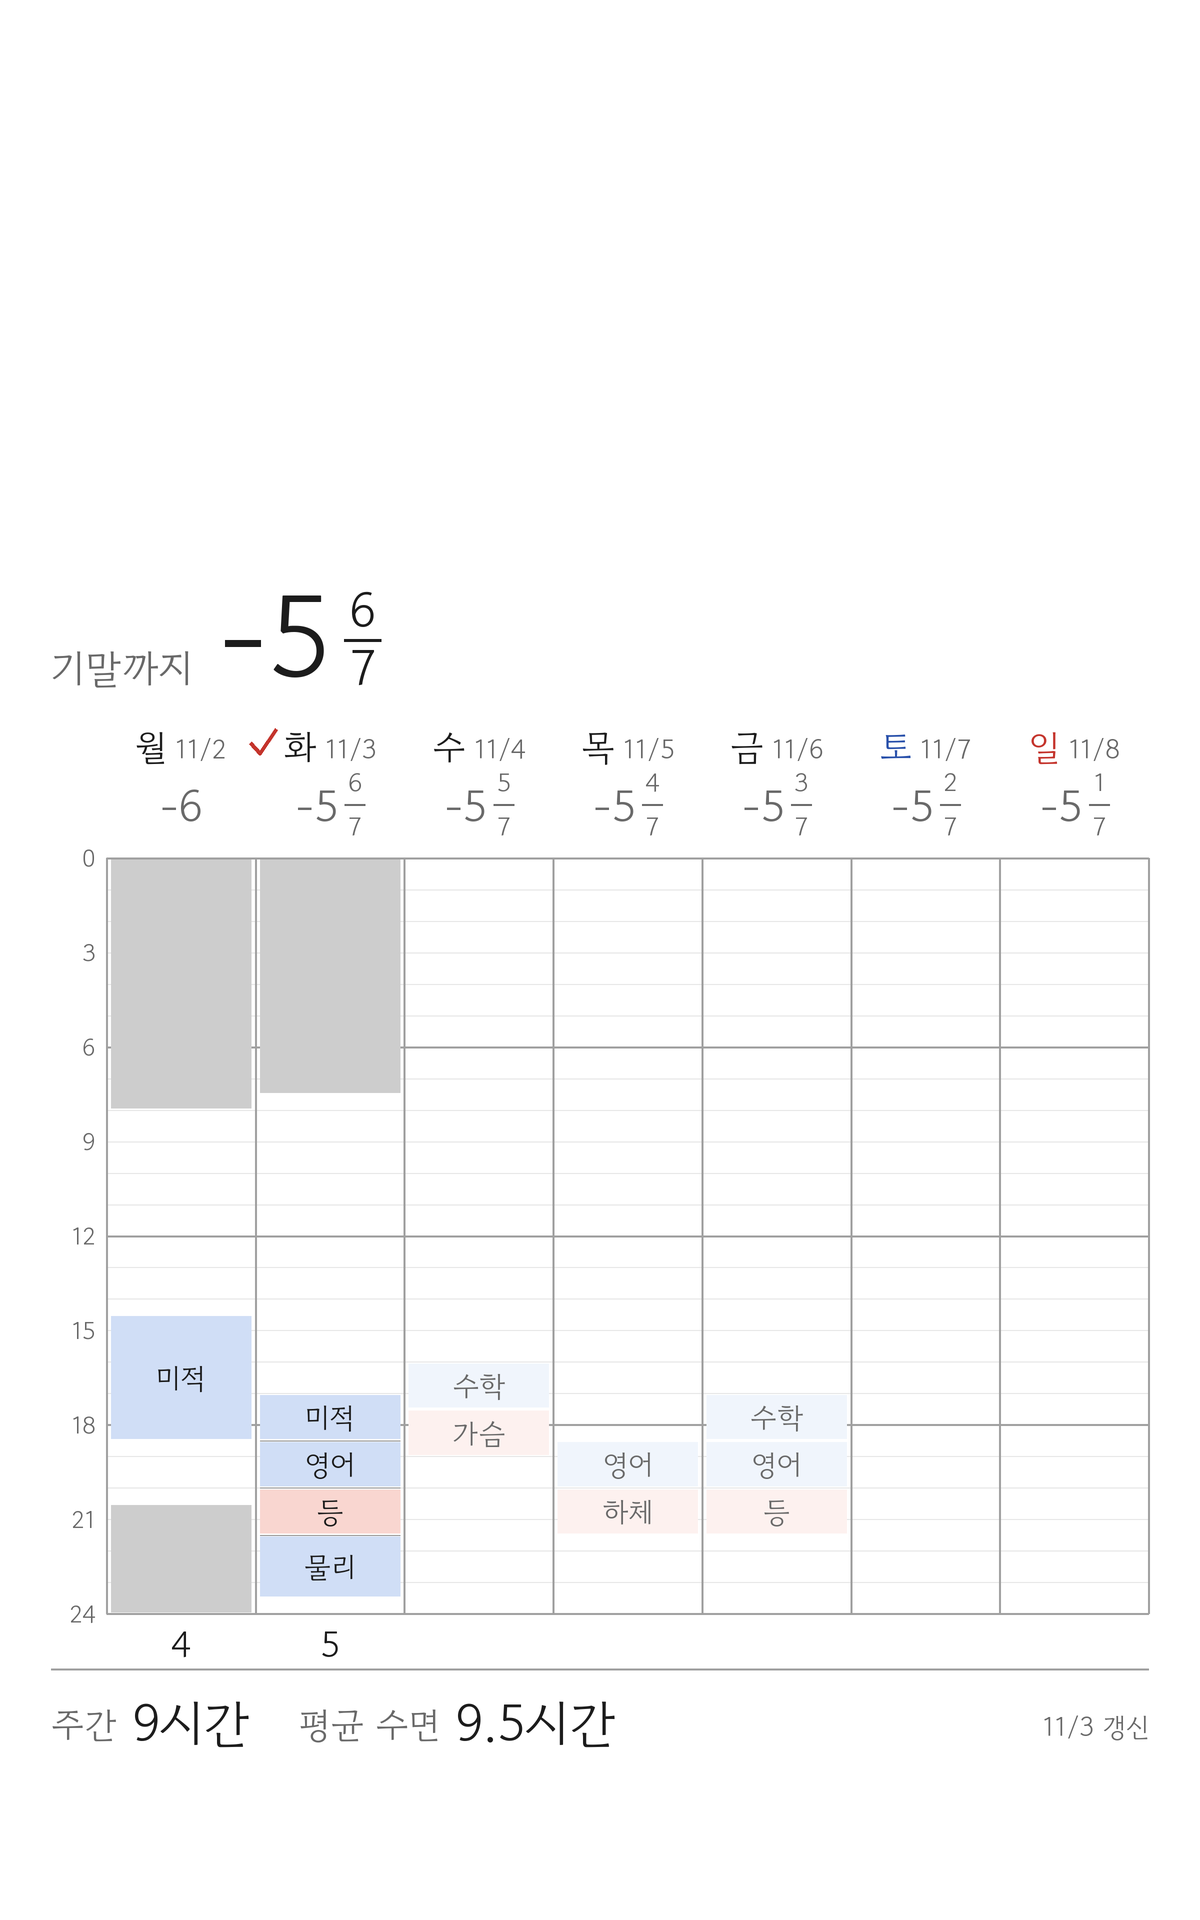
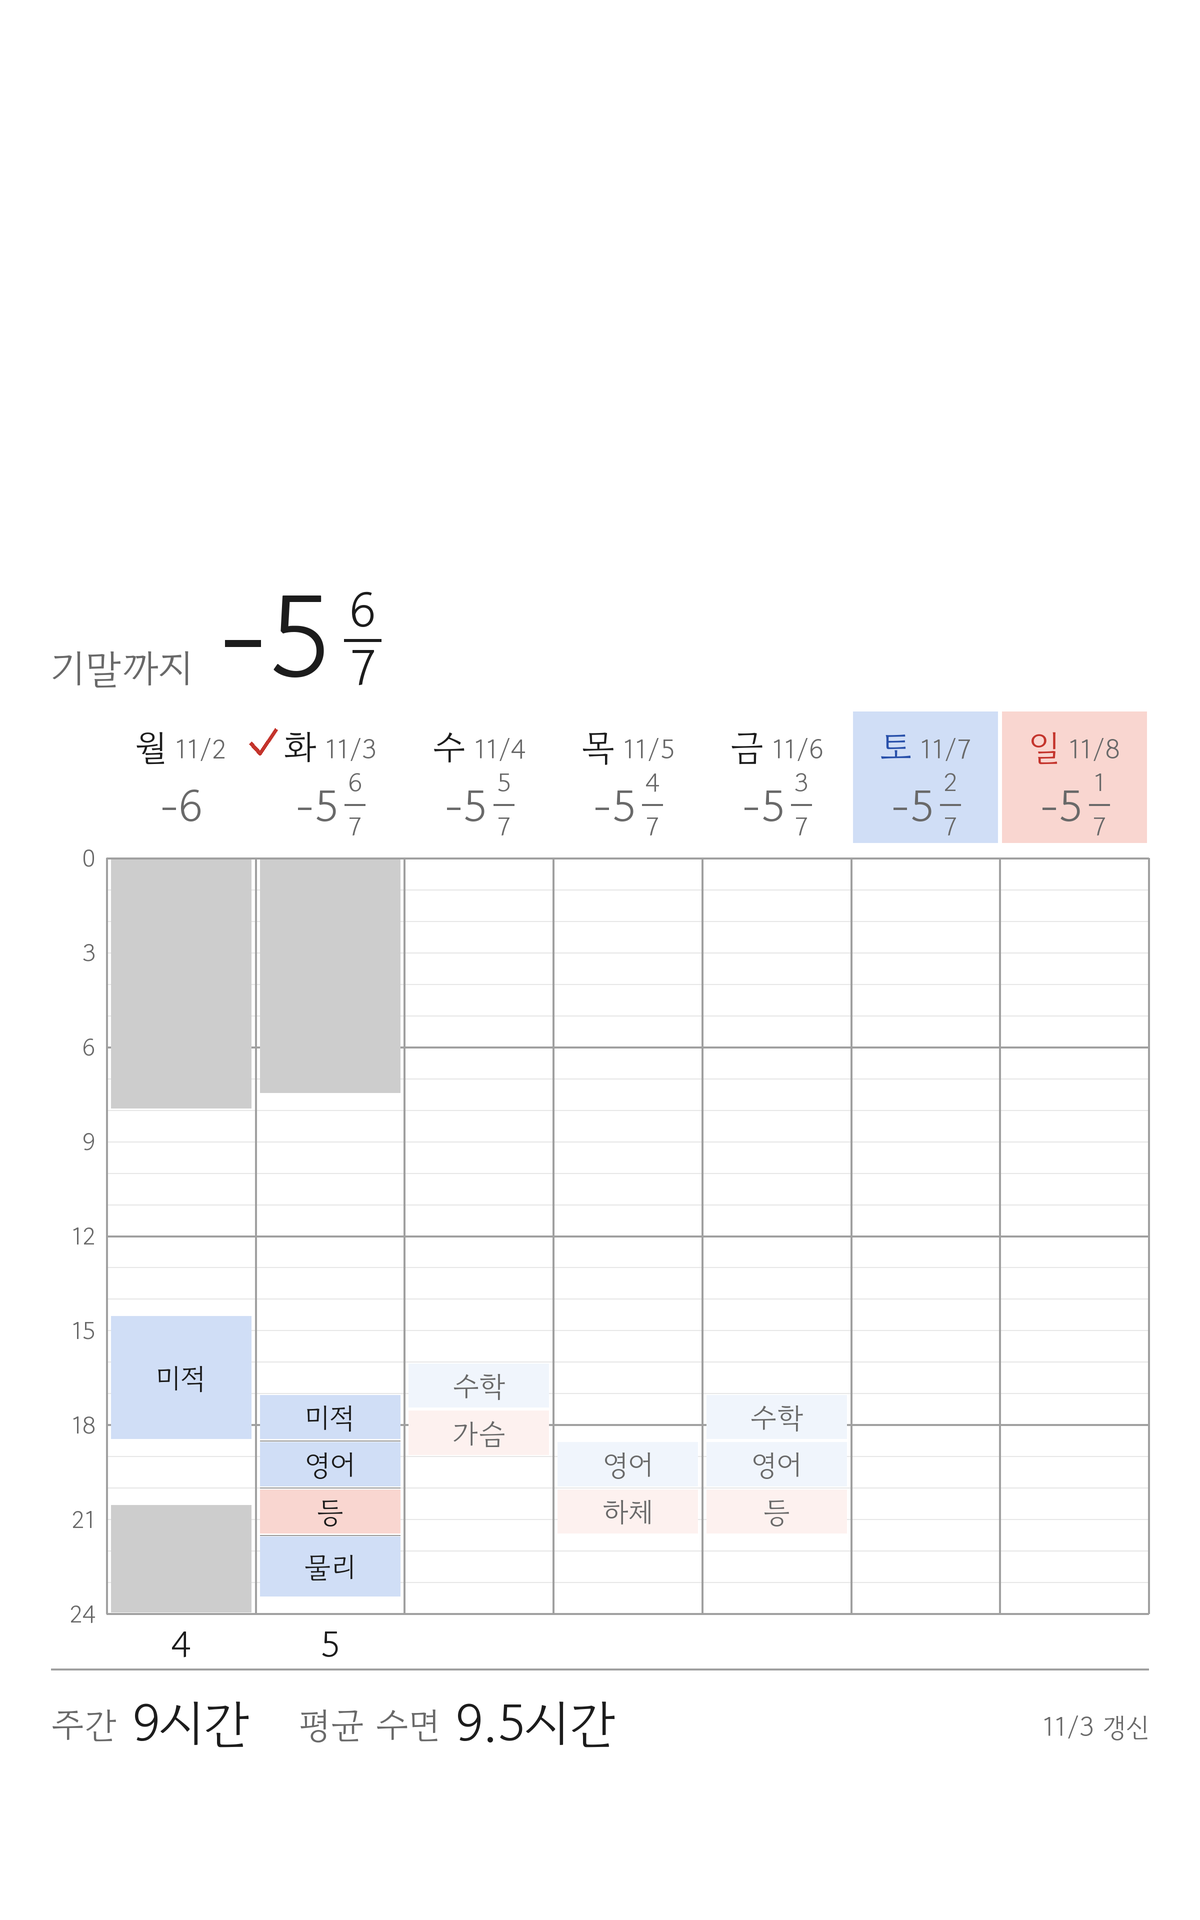
Tint weekend header cells
Claude-Session: https://claude.ai/code/session_016sgH3U9eL8kEJgSR4TfZt2

Changed region(s): [[0.7092, 0.3438, 0.9558, 0.4375]]

diff --git a/make.py b/make.py
@@ -146,6 +146,9 @@ def draw(data, today, W, H, out):
         color = (40, 80, 170) if i == 5 else (196, 52, 44) if i == 6 else INK  # 달력처럼 토 파랑, 일 빨강
         f_md = font(SANS, int(24 * u))
         tw = text_w(g, name, f_head) + text_w(g, md_, f_md)
+        if i >= 5:  # 주말 머리칸에 연한 색
+            g.rectangle((grid_l + col * i + 2 * u, y - 14 * u, grid_l + col * (i + 1) - 2 * u, y + 104 * u),
+                        fill=BLUE_FILL if i == 5 else RED_FILL)
         g.text((cx - tw / 2, y - 6 * u), name, font=f_head, fill=color)
         g.text((cx - tw / 2 + text_w(g, name, f_head), y + 2 * u), md_, font=f_md, fill=INK_SOFT)
         # 날짜 대신 그날 기준 시험까지 남은 기간을 대분수(-5 5/7)로 적는다.
